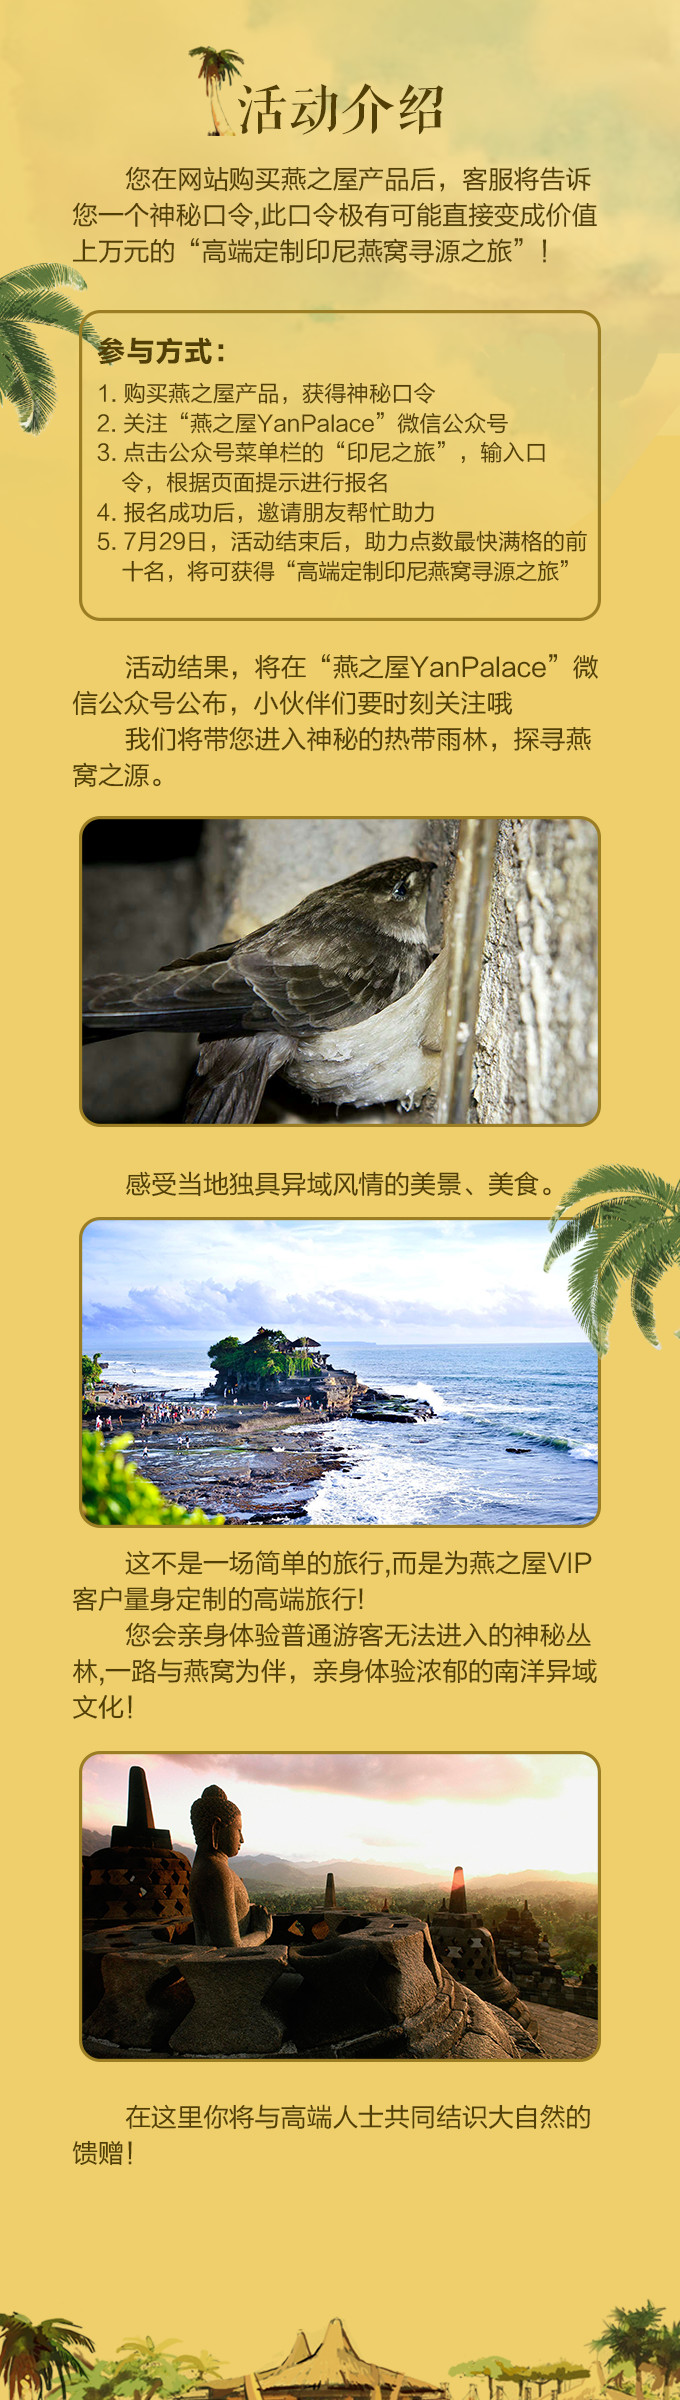
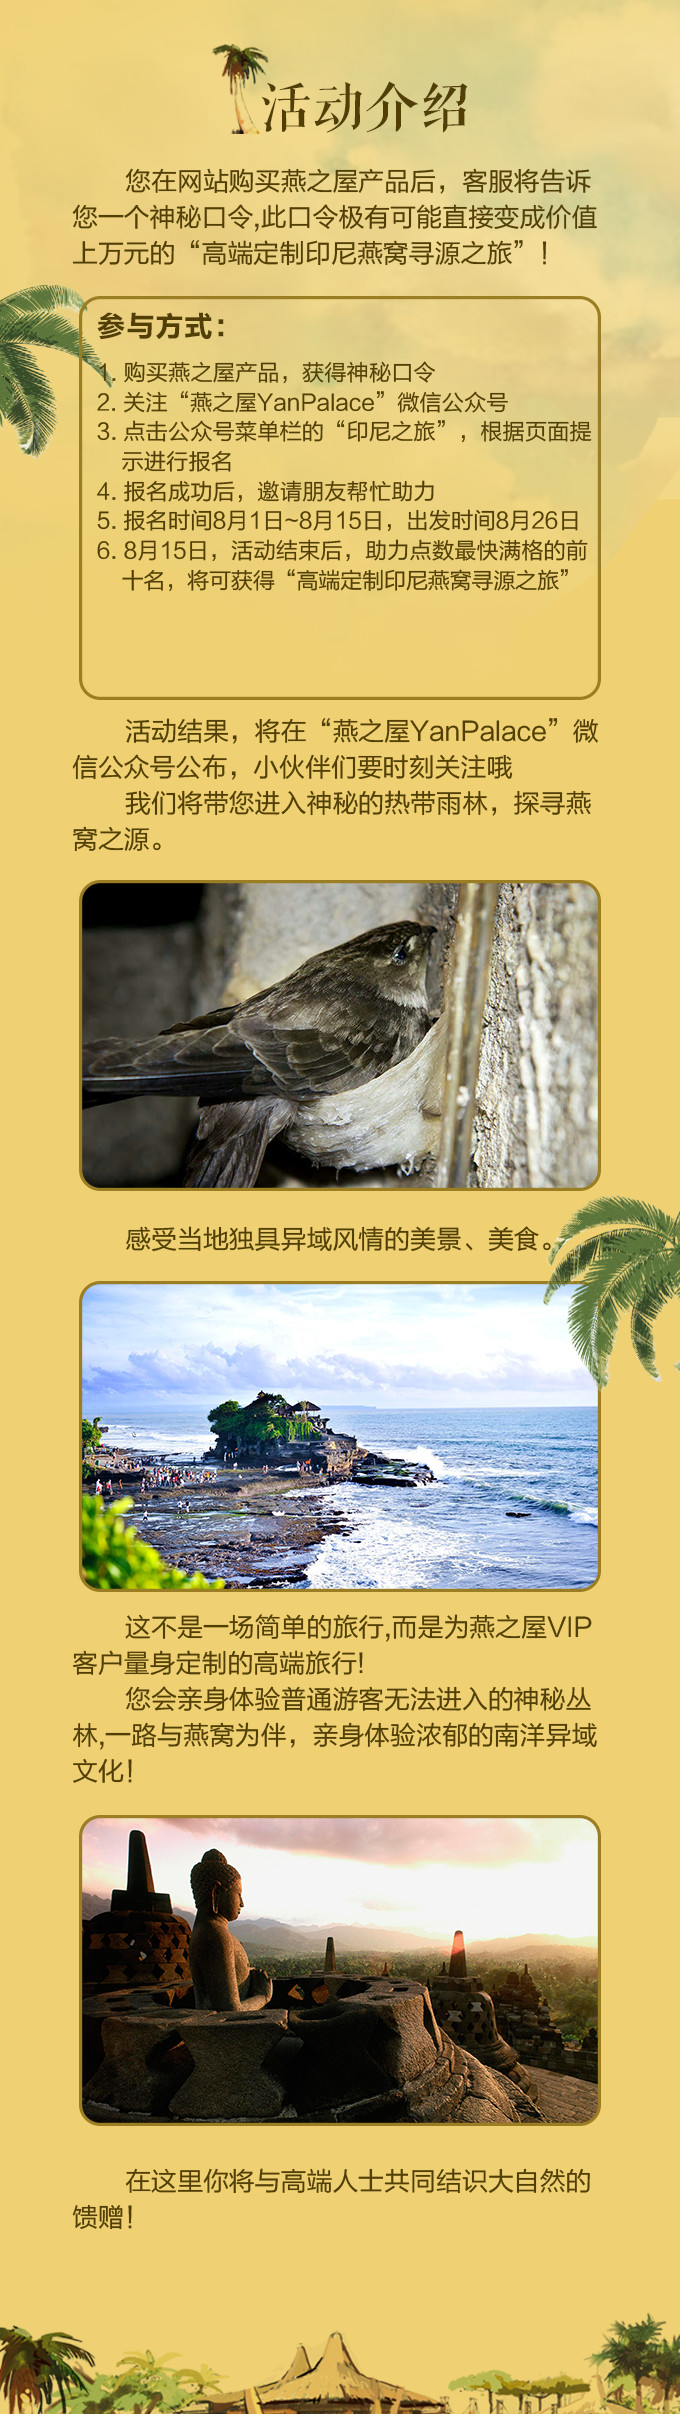
修改图片
修改图片

diff --git a/app/css/main.css b/app/css/main.css
@@ -368,12 +368,12 @@ body {
 
 /*=================misc start=======================*/
 .misc-sprite, .misc-music-bg, #music-control-main, .misc-music-icon, .music-control-icon, .misc-up {
-  background-image: url('../images/misc-sa66909f32a.png');
+  background-image: url('../images/misc-s39ec80f775.png');
   background-repeat: no-repeat;
 }
 
 .misc-music-bg, #music-control-main {
-  background-position: 0 -50px;
+  background-position: 0 -80px;
   height: 58px;
   width: 58px;
 }
@@ -385,9 +385,9 @@ body {
 }
 
 .misc-up {
-  background-position: -19px 0;
-  height: 50px;
-  width: 29px;
+  background-position: 0 -31px;
+  height: 49px;
+  width: 64px;
 }
 
 #arrow-up {
@@ -1190,10 +1190,10 @@ body {
 }
 
 #confirm {
-  top: 115px;
-  left: 118px;
+  top: 112px;
+  left: 110px;
   width: 359px;
-  height: 50px;
+  height: 40px;
   background-image: url("../images/confirm.png");
 }
 
@@ -1217,18 +1217,18 @@ body {
 }
 
 #close-password {
-  top: 320px;
-  left: 258px;
+  top: 334px;
+  left: 250px;
   width: 38px;
   height: 38px;
   background-image: url("../images/close-password.png");
 }
 
 #get-password {
-  top: 244px;
-  left: 118px;
-  width: 359px;
-  height: 50px;
+  top: 240px;
+  left: 102px;
+  width: 371px;
+  height: 68px;
   background-image: url("../images/get-password.png");
 }
 
@@ -1266,21 +1266,21 @@ body {
 
 #acti-des {
   width: 680px;
-  height: 2400px;
+  height: 2414px;
   background-image: url("../images/acti-des.jpg");
 }
 
 #go-buy {
-  bottom: 120px;
-  left: 122px;
-  width: 177px;
-  height: 53px;
+  top: 610px;
+  left: 228px;
+  width: 235px;
+  height: 68px;
   background-image: url("../images/buy.png");
 }
 
 #back-sign {
   bottom: 120px;
-  left: 371px;
+  left: 263px;
   width: 177px;
   height: 53px;
   background-image: url("../images/back-sign.png");

diff --git a/app/scss/main.scss b/app/scss/main.scss
@@ -689,8 +689,8 @@ $bird-sprite-dimensions: true;
 }
 
 #confirm {
-    top: 115px;
-    left: 118px;
+    top: 112px;
+    left: 110px;
     $confirm: '../images/confirm.png';
     width: image-width($confirm);
     height: image-height($confirm);
@@ -720,8 +720,8 @@ $bird-sprite-dimensions: true;
 }
 
 #close-password {
-    top: 320px;
-    left: 258px;
+    top: 334px;
+    left: 250px;
     $close-password: '../images/close-password.png';
     width: image-width($close-password);
     height: image-height($close-password);
@@ -729,8 +729,8 @@ $bird-sprite-dimensions: true;
 }
 
 #get-password {
-    top: 244px;
-    left: 118px;
+    top: 240px;
+    left: 102px;
     $get-password: '../images/get-password.png';
     width: image-width($get-password);
     height: image-height($get-password);
@@ -779,8 +779,8 @@ $bird-sprite-dimensions: true;
 }
 
 #go-buy {
-    bottom: 120px;
-    left: 122px;
+    top: 610px;
+    left: 228px;
     $buy: '../images/buy.png';
     width: image-width($buy);
     height: image-height($buy);
@@ -789,7 +789,7 @@ $bird-sprite-dimensions: true;
 
 #back-sign {
     bottom: 120px;
-    left: 371px;
+    left: 263px;
     $back-sign: '../images/back-sign.png';
     width: image-width($back-sign);
     height: image-height($back-sign);

diff --git a/app/js/main.js b/app/js/main.js
@@ -17,7 +17,7 @@ var page5SlideUpIn;
 
 // 预加载
 var sourceArr = [
-    'images/acti-des.png',
+    'images/acti-des.jpg',
     'images/back-sign.png',
     'images/bird-s8cbbc68603.png',
     'images/buy.png',
@@ -30,7 +30,7 @@ var sourceArr = [
     'images/go-sign.png',
     'images/go-sign2.png',
     'images/logo.png',
-    'images/misc-sa66909f32a.png',
+    'images/misc-s39ec80f775.png',
     'images/page2-bg.jpg',
     'images/page2-sf45919eb87.png',
     'images/page3-bg.jpg',
